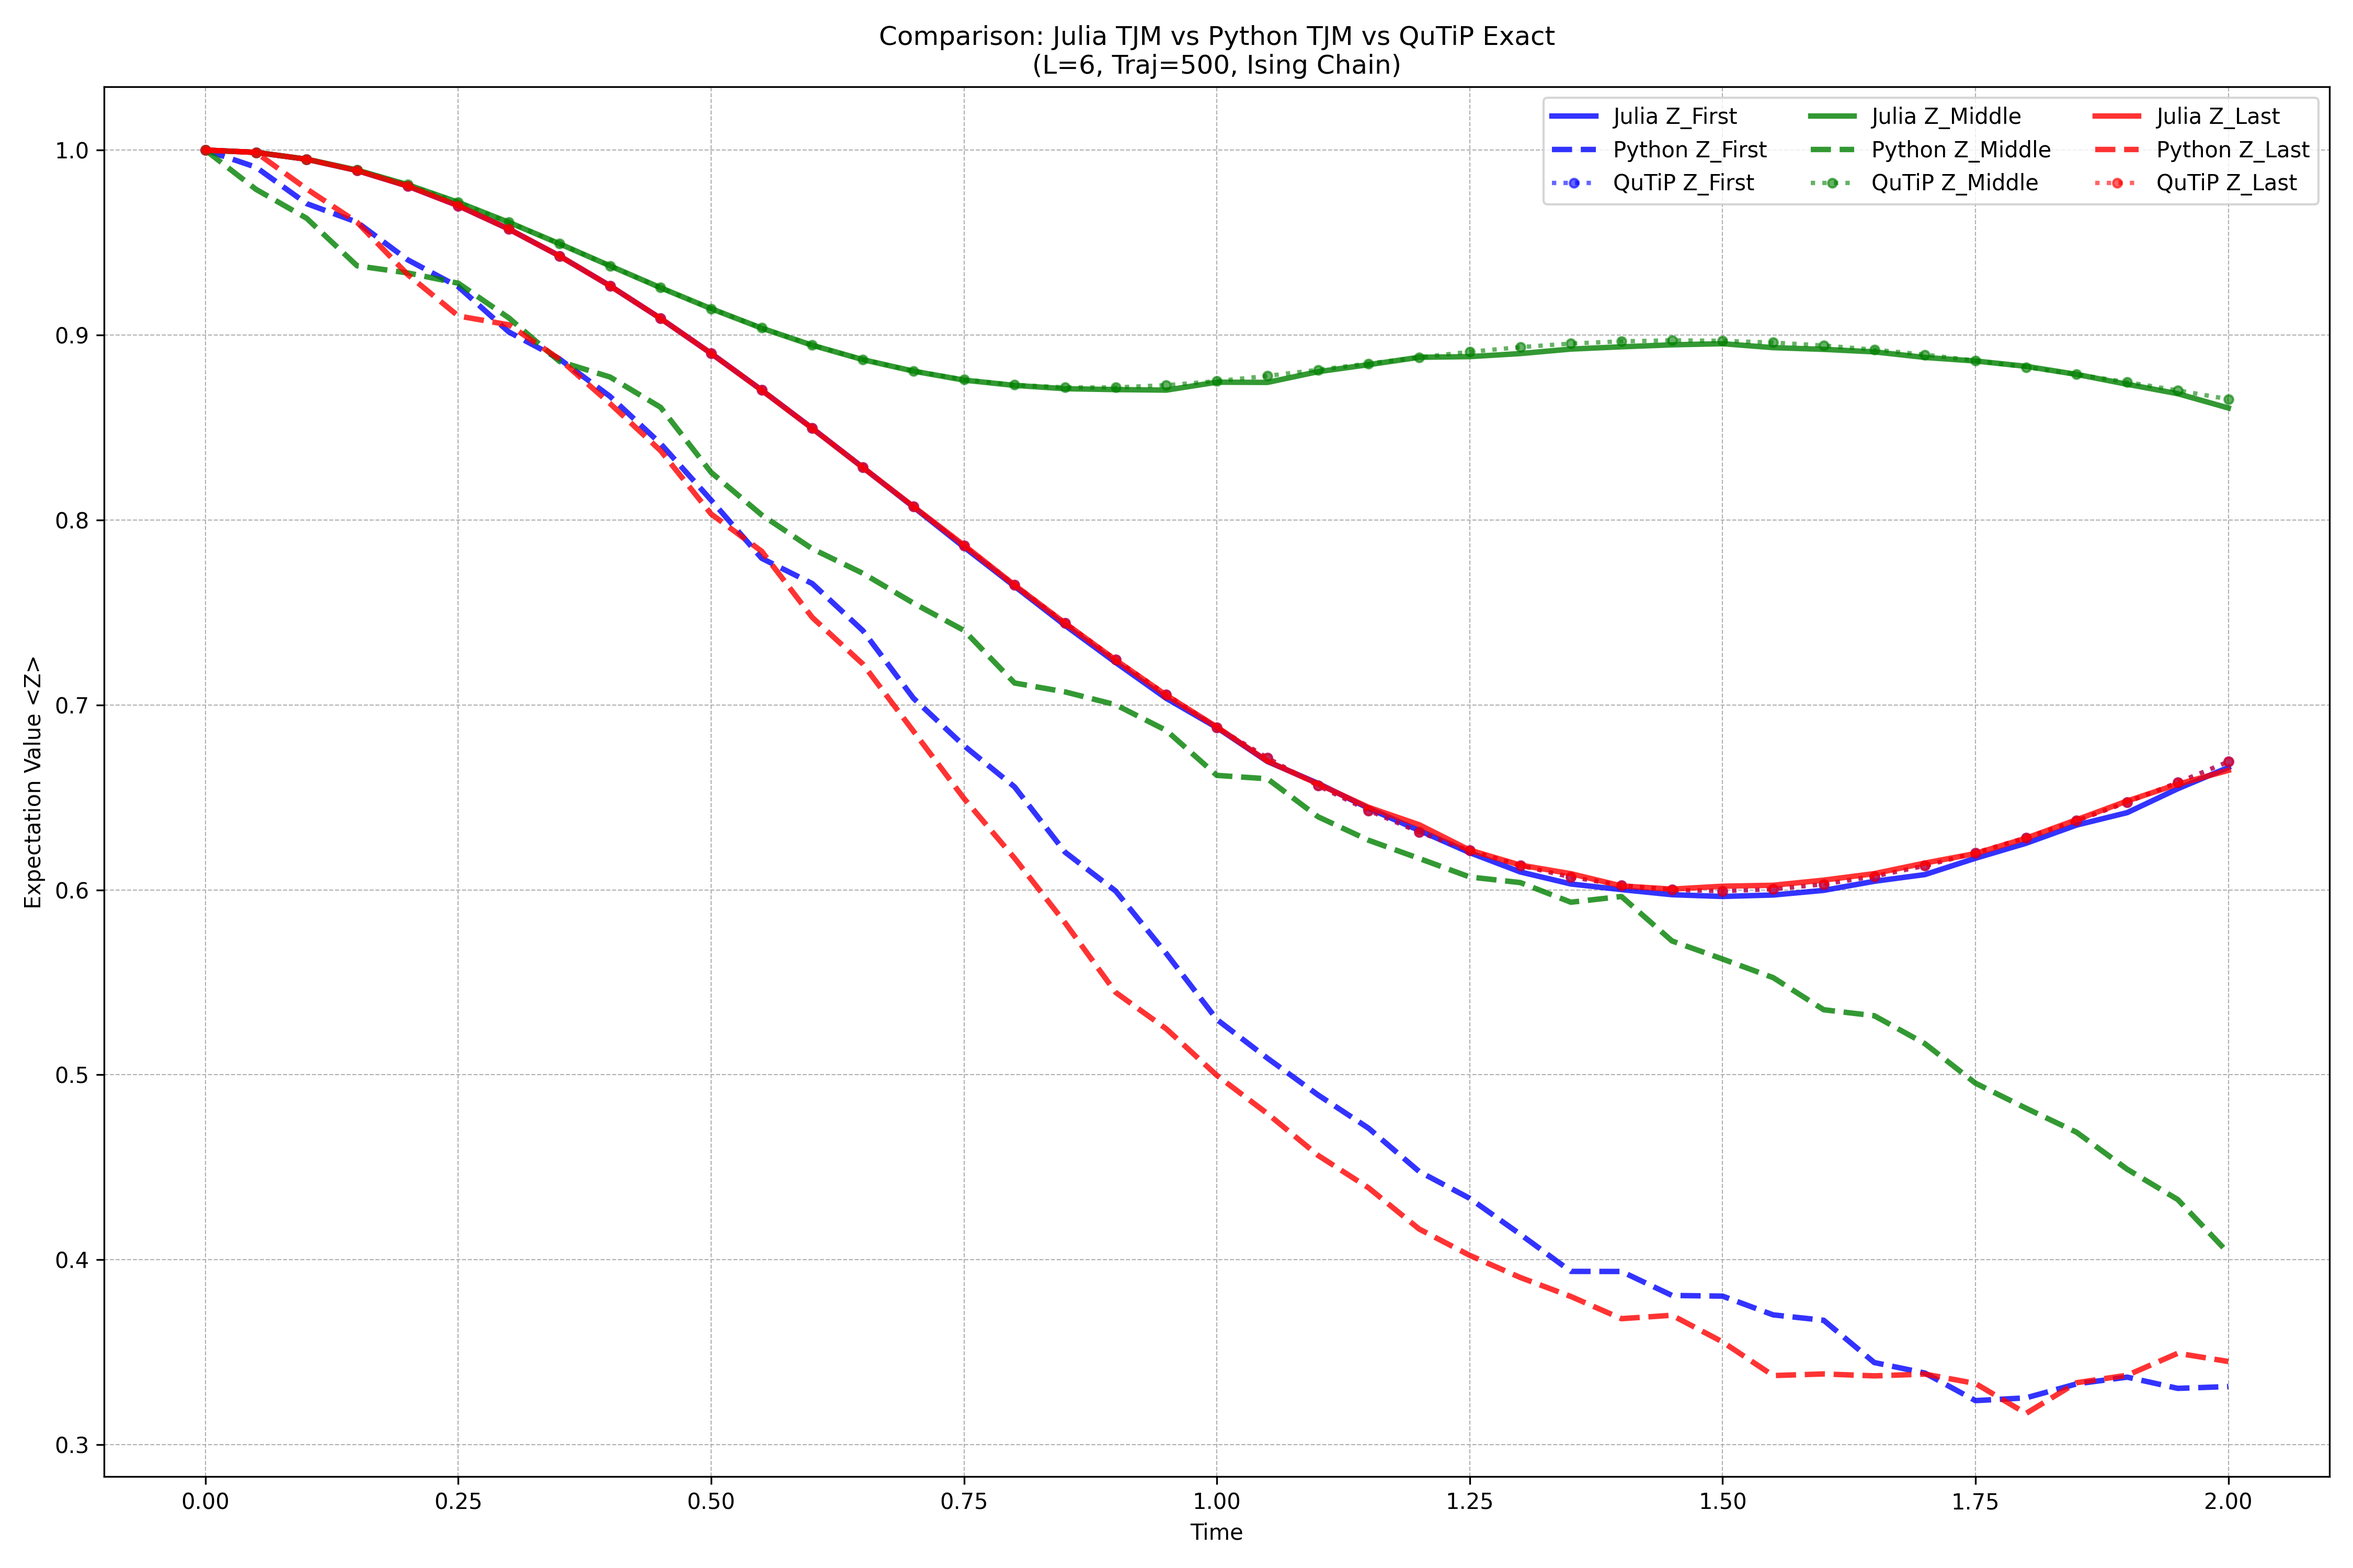
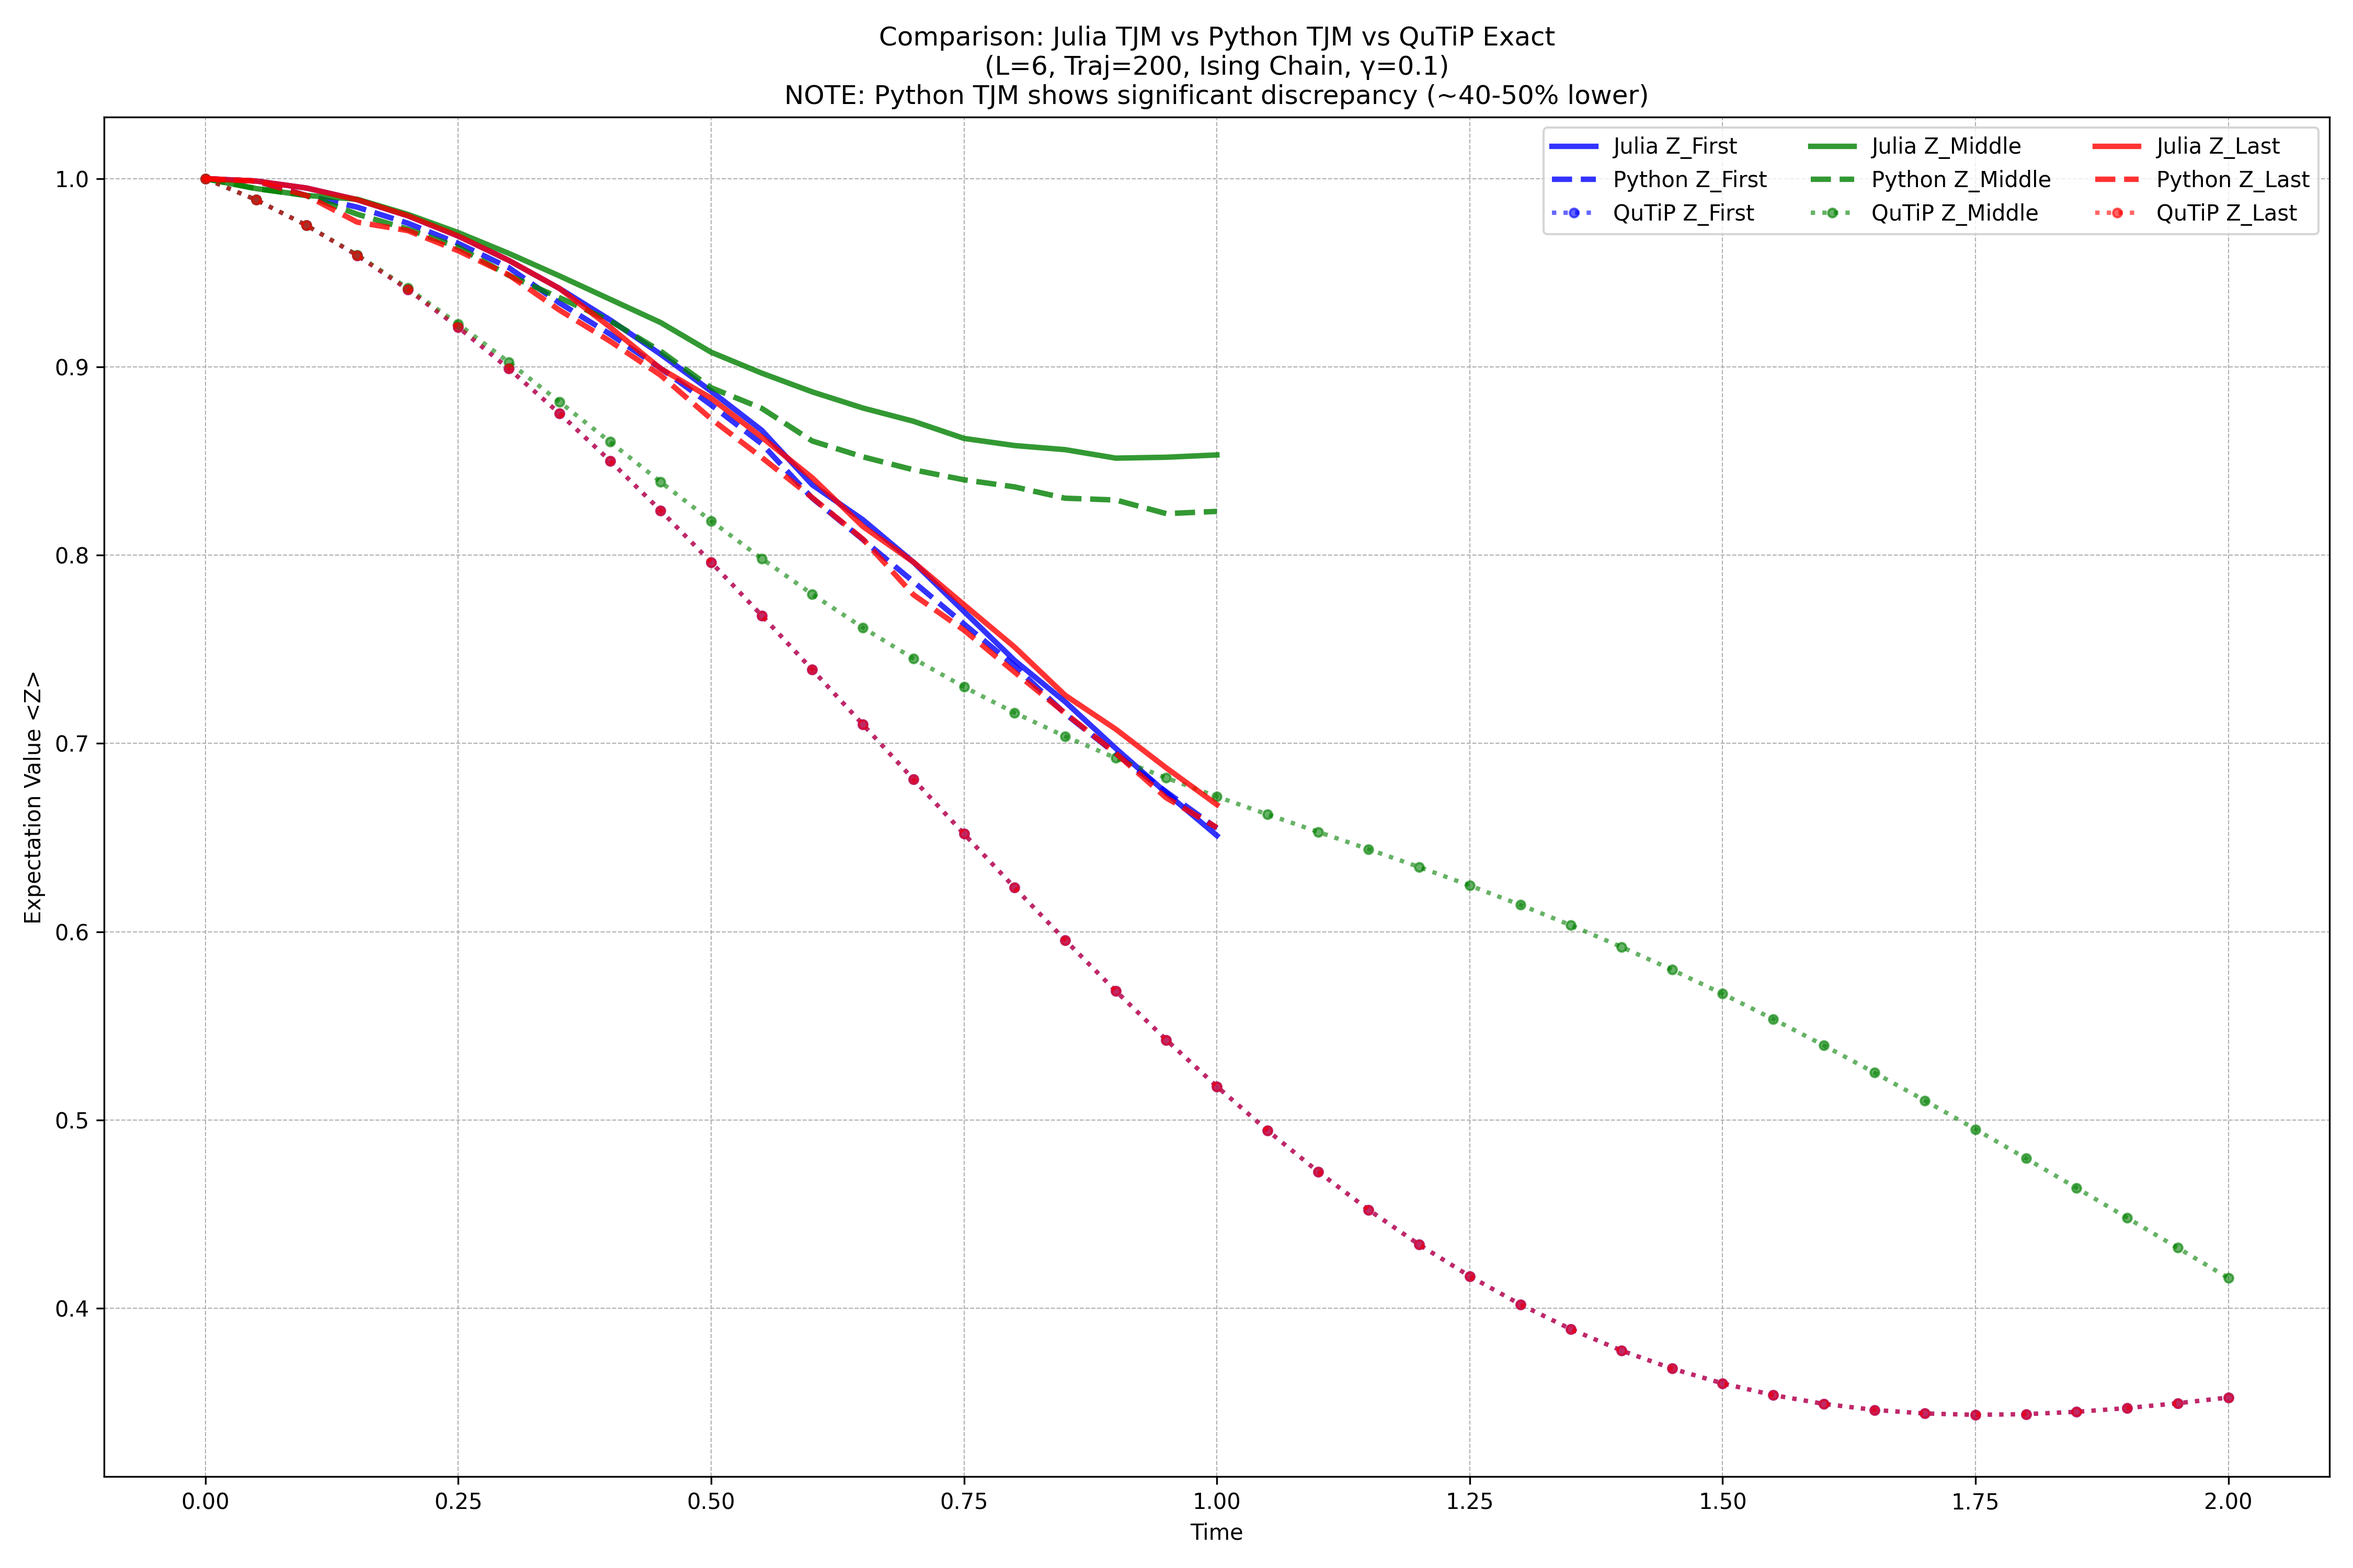
update

diff --git a/experiments/run_python_qutip.py b/experiments/run_python_qutip.py
@@ -5,13 +5,14 @@ import pandas as pd
 import os
 
 def run_qutip_and_plot():
-    # --- Simulation Parameters (Matching Julia/Python L=6) ---
+    # --- Simulation Parameters (Matching Python L=6) ---
     L = 6
     J = 1.0
     h = 0.5
     gamma = 0.1
     dt = 0.05
     total_time = 2.0
+    num_traj = 200
     
     print(f"Running QuTiP Exact Simulation (L={L})...")
 
@@ -21,8 +22,7 @@ def run_qutip_and_plot():
     sz = qt.sigmaz()
     
     # YAQS 'raising' is [[0,0],[1,0]] (0->1 excitation).
-    # In QuTiP basis (0=Up, 1=Down), this corresponds to sigmam (0->1).
-    # sigmam = [[0,0],[1,0]].
+    # In QuTiP, sigmam = [[0,0],[1,0]] maps |0> -> |1>.
     sp = qt.sigmam() 
 
     # Hamiltonian (Ising)
@@ -67,15 +67,14 @@ def run_qutip_and_plot():
     result_qutip = qt.mesolve(H_qutip, initial_state_qutip, times, c_ops, z_ops)
     print("QuTiP Simulation Finished.")
 
-    # --- Load Benchmark Results ---
-    julia_file = "experiments/julia_results_L6.csv"
+    # --- Load Python Results ---
     python_file = "experiments/python_results_L6.csv"
     
-    if not os.path.exists(julia_file) or not os.path.exists(python_file):
-        print("Error: Benchmark result files not found. Run benchmarks first.")
+    if not os.path.exists(python_file):
+        print(f"Error: Python results file not found at {python_file}")
+        print("Please run: python3 experiments/benchmark_python.py")
         return
 
-    df_julia = pd.read_csv(julia_file)
     df_python = pd.read_csv(python_file)
 
     # --- Plotting ---
@@ -89,28 +88,25 @@ def run_qutip_and_plot():
         c = colors[i]
         lbl = labels[i]
         
-        # Julia (Solid)
-        plt.plot(df_julia["Time"], df_julia[col], label=f"Julia Z_{lbl}", 
-                 color=c, linestyle='-', linewidth=2.5, alpha=0.8)
-        
         # Python (Dashed)
-        plt.plot(df_python["Time"], df_python[col], label=f"Python Z_{lbl}", 
+        plt.plot(df_python["Time"], df_python[col], label=f"Python TJM Z_{lbl}", 
                  color=c, linestyle='--', linewidth=2.5, alpha=0.8)
         
-        # QuTiP (Dotted + Markers)
-        plt.plot(times, result_qutip.expect[i], label=f"QuTiP Z_{lbl}", 
-                 color=c, linestyle=':', linewidth=2, marker='o', markersize=4, alpha=0.6)
+        # QuTiP (Solid + Markers)
+        plt.plot(times, result_qutip.expect[i], label=f"QuTiP Exact Z_{lbl}", 
+                 color=c, linestyle='-', linewidth=2, marker='o', markersize=4, alpha=0.6)
 
     plt.xlabel("Time")
     plt.ylabel("Expectation Value <Z>")
-    plt.title(f"Comparison: Julia TJM vs Python TJM vs QuTiP Exact\n(L={L}, Traj=200, Ising Chain, γ={gamma})\nNOTE: Python TJM shows significant discrepancy (~40-50% lower)")
+    plt.title(f"Python TJM vs QuTiP Exact\n(L={L}, Traj={num_traj}, Ising Chain, γ={gamma})")
     plt.legend(ncol=3, loc='best')
     plt.grid(True, which='both', linestyle='--', linewidth=0.5)
     plt.tight_layout()
     
-    output_img = "experiments/comparison_L6_all.png"
+    output_img = "experiments/comparison_python_qutip.png"
     plt.savefig(output_img, dpi=300)
     print(f"Plot saved to {output_img}")
 
 if __name__ == "__main__":
     run_qutip_and_plot()
+

diff --git a/experiments/benchmark_python.py b/experiments/benchmark_python.py
@@ -18,13 +18,13 @@ except ImportError:
 
 def run_benchmark():
     # 1. Parameters
-    L = 6
+    L = 12
     J = 1.0
     h = 0.5
     dt = 0.05
-    t_total = 2.0
-    num_traj = 200  # Reduced to 200
-    strength = 0.1
+    t_total = 1.0
+    num_traj = 500  
+    strength = 0.01
 
     print(f"Starting Python Analog TJM Benchmark (L=6)...")
     print(f"L={L}, J={J}, h={h}, dt={dt}, T={t_total}, Traj={num_traj}, Noise=Raising({strength})")
@@ -40,7 +40,7 @@ def run_benchmark():
     # Noise Model
     # Note: 'raising' in YAQS is [[0,0],[1,0]] (0->1 excitation)
     processes = [{"name": "raising", "sites": [i], "strength": strength} for i in range(L)]
-    noise_model = NoiseModel(processes)
+    noise_model = NoiseModel(processes, num_qubits=L)
 
     # Observables: Z on first, middle, last
     # L=6 -> Julia: 1, 3, 6. Python: 0, 2, 5.
